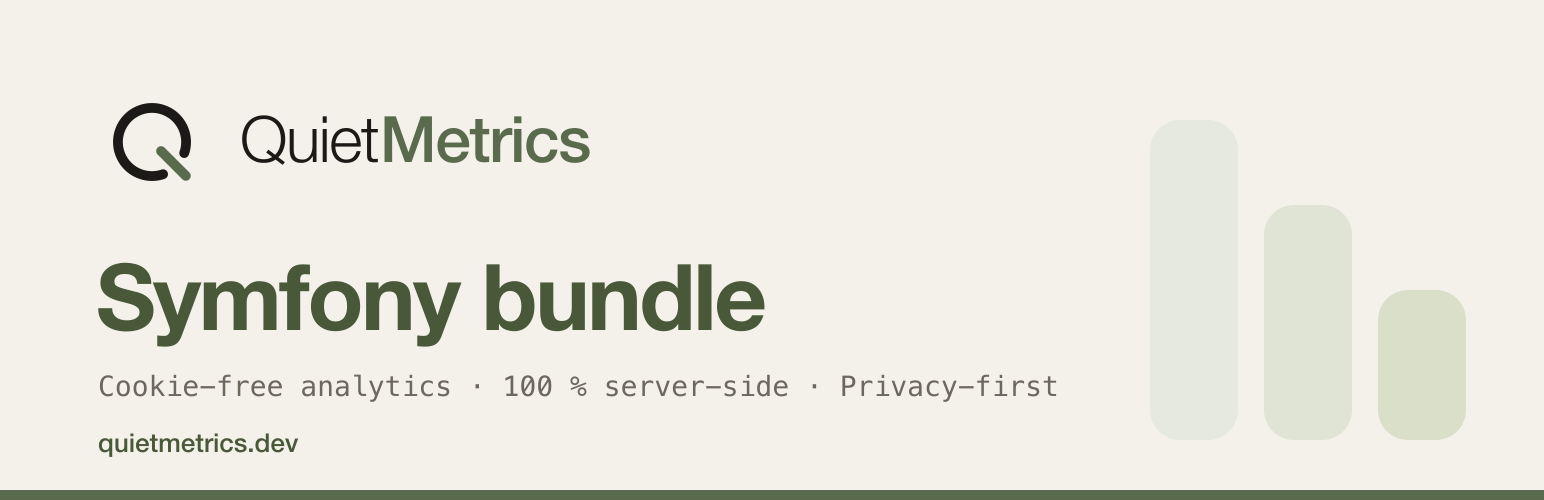
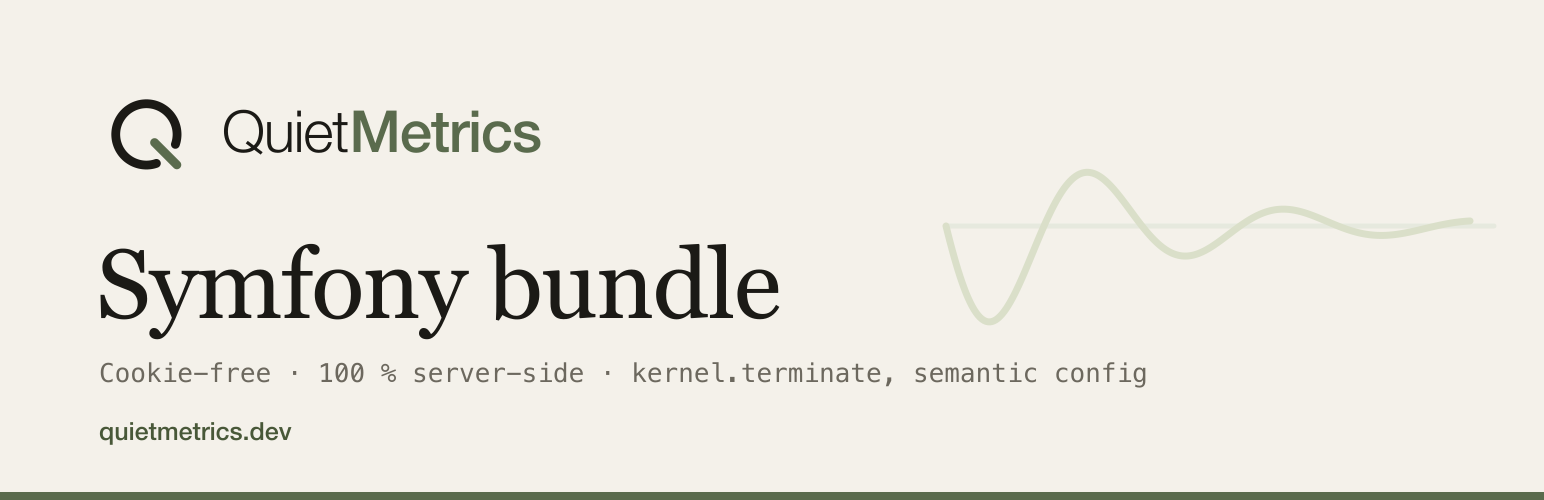
Aligner symfony et wordpress sur la charte, et rentrer les teintes dans la palette
BRANDPALETTETEST A ATTRAPE UNE DERIVE QUE J'AVAIS INTRODUITE. L'onde amortie
posee sur les bannieres employait deux verts inventes, #c9d2bc et #e2e6da,
absents de resources/brand/palette.json. C'est exactement ce que ce garde
existe pour empecher : une teinte saisie a la main qui s'ecarte de quelques
unites et dont plus personne ne sait, six mois plus tard, laquelle etait la
bonne. Les cinq bannieres reprennent desormais tints.tint-3 pour l'onde et
tint-1 pour la ligne de calme, deja declarees.

Symfony et WordPress recoivent la meme banniere que les trois autres, avec une
accroche qui leur est propre. Celle du plugin ne dit plus « 100 % server-side »
alors qu'il offre aussi le mode script first-party : elle annonce les deux.

Visuels du repertoire WordPress regeneres. L'ICONE PASSE AU SCEAU, le Q en
reserve dans un carre plein, et non plus la marque nue : a taille d'icone la
queue du Q fait deux pixels et la couleur du produit disparait, ce que la
charte dit explicitement.

Trouve en chemin : readme.txt annonçait sa premiere version en « = 1.0.0 = »
quand l'en-tete du plugin et le stable tag disaient tous deux 0.1.0. Reste des
v1.0.0 remplacees en juillet. Le plugin passe en 0.1.1 aux trois endroits qui
portent son numero.

diff --git a/CHANGELOG.md b/CHANGELOG.md
@@ -7,6 +7,14 @@ Format: [Keep a Changelog](https://keepachangelog.com/en/1.1.0/); versioning: [S
 
 Full pre-publication review pending (the core PHP SDK and the Laravel bridge already went through theirs).
 
+## [0.1.1] - 2026-08-27
+
+Documentation and artwork only. The bundle code is unchanged since 0.1.0.
+
+### Changed
+- Banner redrawn to the current brand: product typefaces instead of webfonts that were never part of the design system, the damped wave instead of the pre-redesign bars, title in ink rather than in the accent colour.
+- Install instructions: `quiet-metrics/php-metrics` is on Packagist, so only this repository needs a VCS entry.
+
 ## [0.1.0] - 2026-07-24
 
 First tagged snapshot (private beta).
